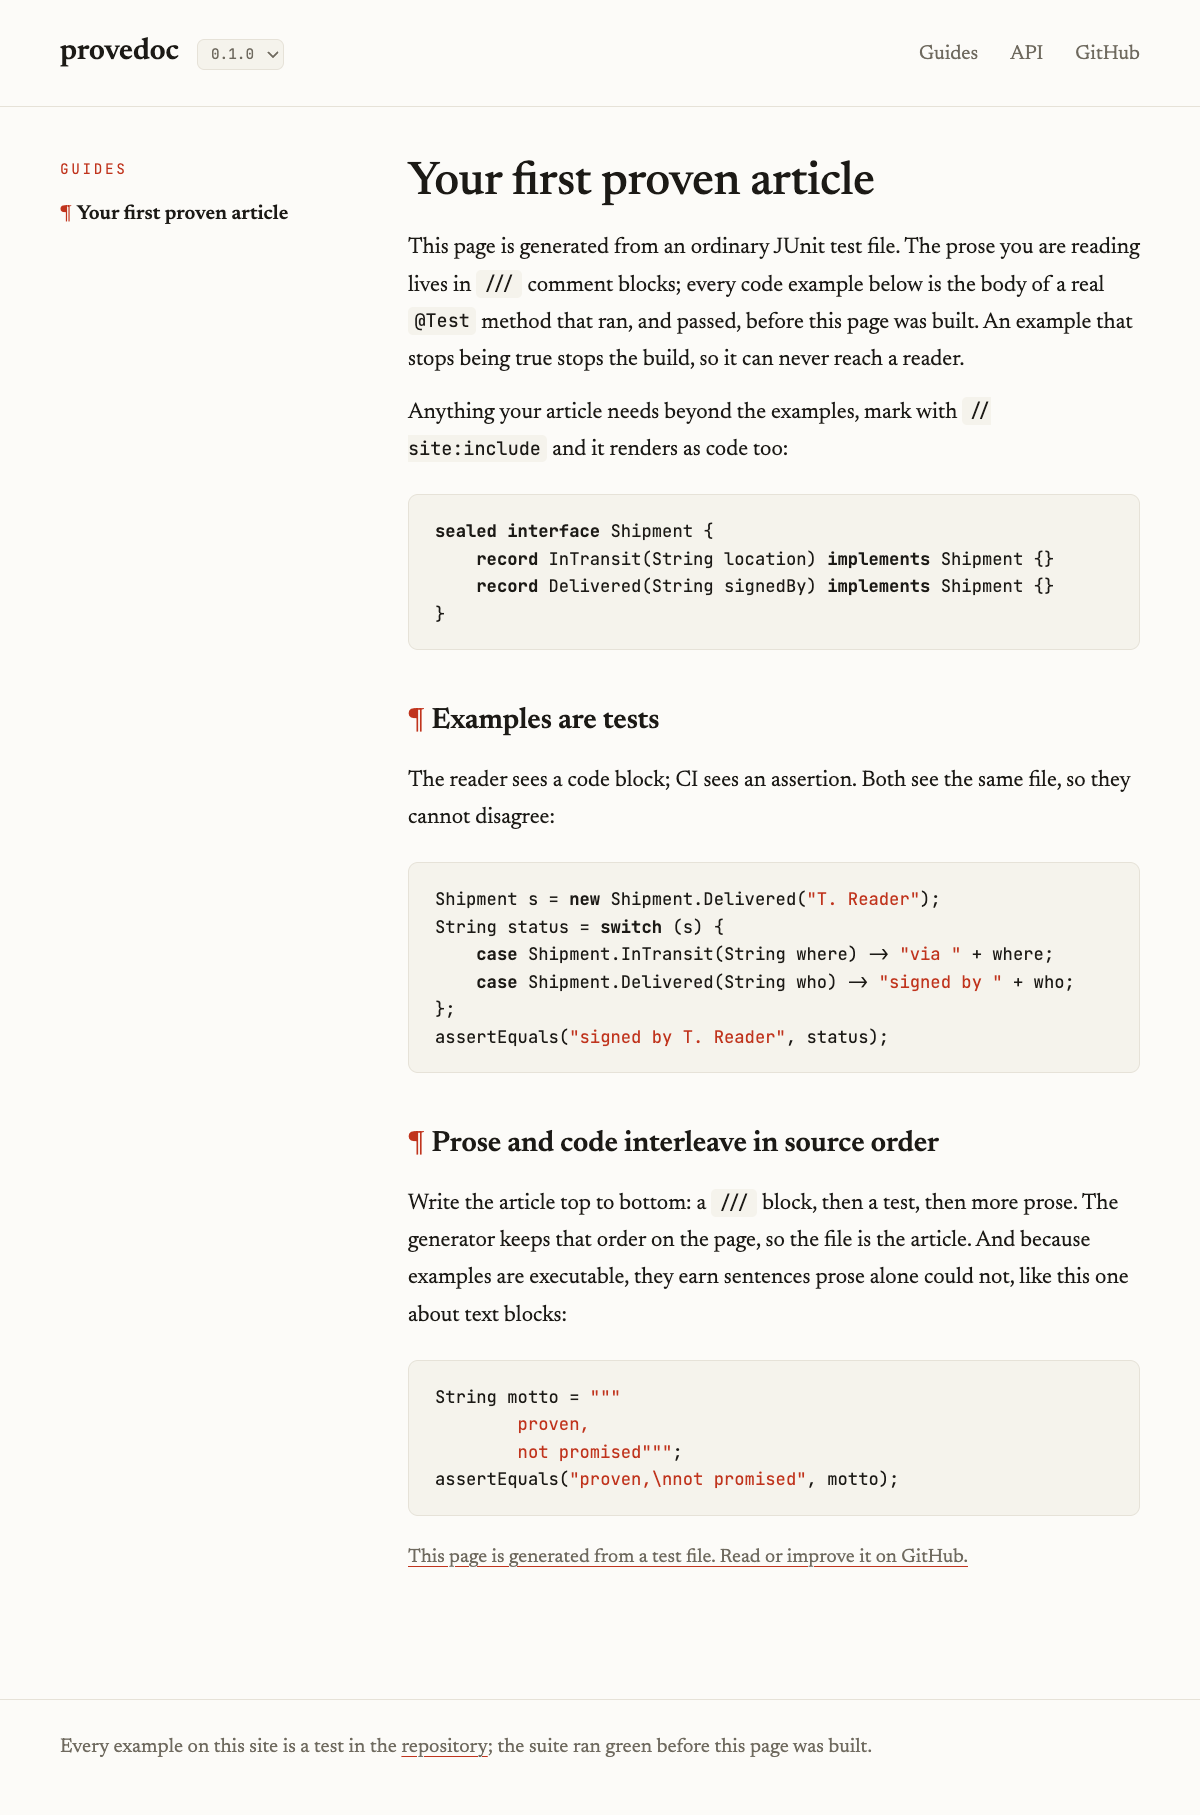
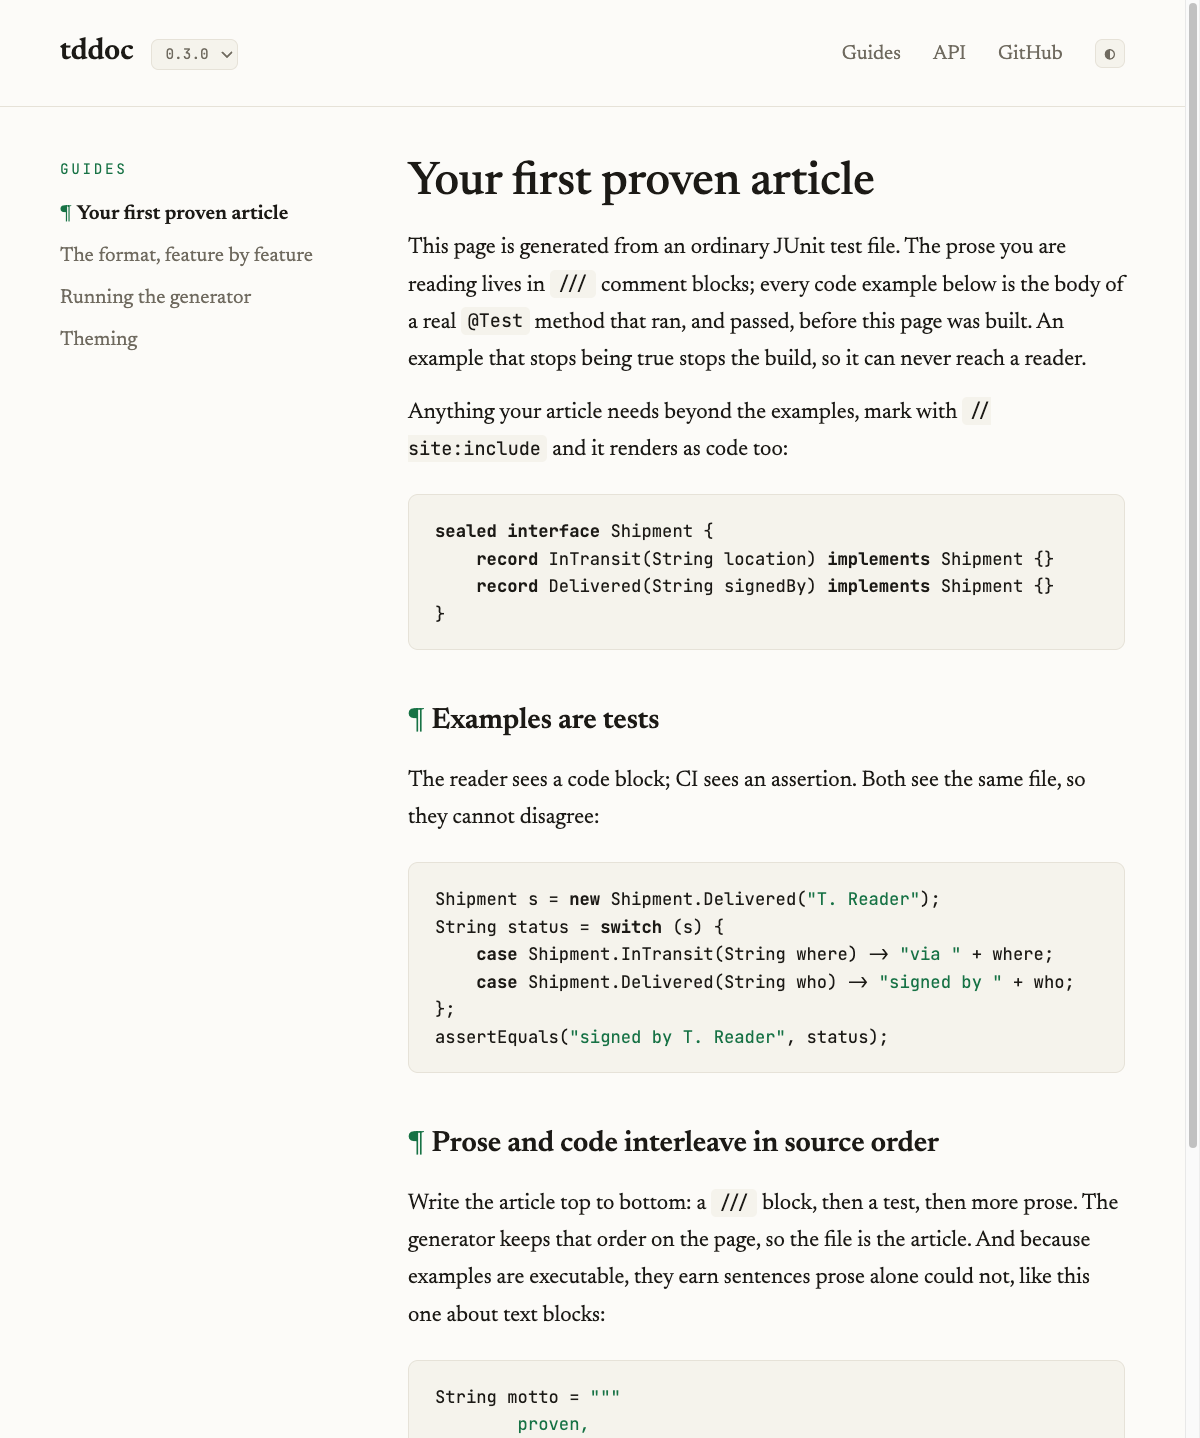
docs: 0.3.0 refresh — new screenshot, current status, CLAUDE.md state (#30)

diff --git a/CLAUDE.md b/CLAUDE.md
@@ -54,14 +54,18 @@ original design rationale).
 
 ## Current state and roadmap
 
-- Branding is generalized behind flags: `--name`, `--tagline`, `--repo`,
-  `--glyph`, `--install` (renders only when given; `{version}` substituted),
-  `--editBase`, plus the original `--docs/--out/--javadoc/--version/--prefix/--channel`.
-- Roadmap issues, in recommended order: #3 design-token CSS refactor (do
-  first, enables the rest), #4 dark/light toggle (depends on #3), #2 flat
-  tddoc.yml config (independent, any time).
-- Still fforj-shaped: the CSS itself (rubrication design), the versioned-deploy
-  workflow templates, and Kotlin/Groovy source support.
+- Released: 0.1.0 (core), 0.2.x (Gradle/Maven plugins as thin wrappers over
+  SiteGen.main, tddoc.yml as primary config, --watch, recursive discovery),
+  0.3.0 (design tokens + six built-in themes + --css/--style, multi-language
+  fence highlighting, dark/light toggle, neutral defaults). jbang catalog:
+  `jbang tddoc@tddoc`. Docs site auto-deploys to GitHub Pages on push to main.
+- Config: tddoc.yml (flat subset, parsed by SiteGen.readConfig — public,
+  plugins reuse it). Precedence: flag/explicit plugin config > yml > default.
+  Yml-relative paths resolve against the yml's directory.
+- Open issues: #13 Kotlin autodetect, #25 tddoc.dev DNS (user action), #8/#20
+  parked.
+- Still fforj-shaped: the versioned-deploy workflow templates and
+  Kotlin/Groovy source support.
 - The fforj switchover (its `site` task consuming this tool) is the proof of
   generalization; record it in fforj's `decisions.md` when it happens.
 

diff --git a/README.md b/README.md
@@ -24,10 +24,12 @@ engine of [fforj](https://github.com/fforj/fforj) (live at
 real behavioral diffs between them, and a GitHub Pages deploy where a failing
 example can never ship. This repo is that engine becoming a general tool.
 
-Current milestone: generalize the fforj-specific parts behind configuration
-while keeping the copy-paste contract below. Branding and locations are done
-(`--name`, `--tagline`, `--repo`, `--glyph`, `--docs`, `--install`, `--editBase`
-flags); theming and the versioned-deploy workflow templates are next.
+Current milestone: generalization is nearly complete — configuration lives in
+a flat `tddoc.yml` (zero inline config for jbang, Gradle, and Maven), six
+built-in themes ride on design tokens (a 15-line `--css` file rebrands the
+site), articles get multi-language syntax highlighting, a dark/light toggle,
+and `--watch` live preview. Next: the versioned-deploy workflow templates and
+the fforj switchover that proves it all.
 
 ## What it looks like
 
